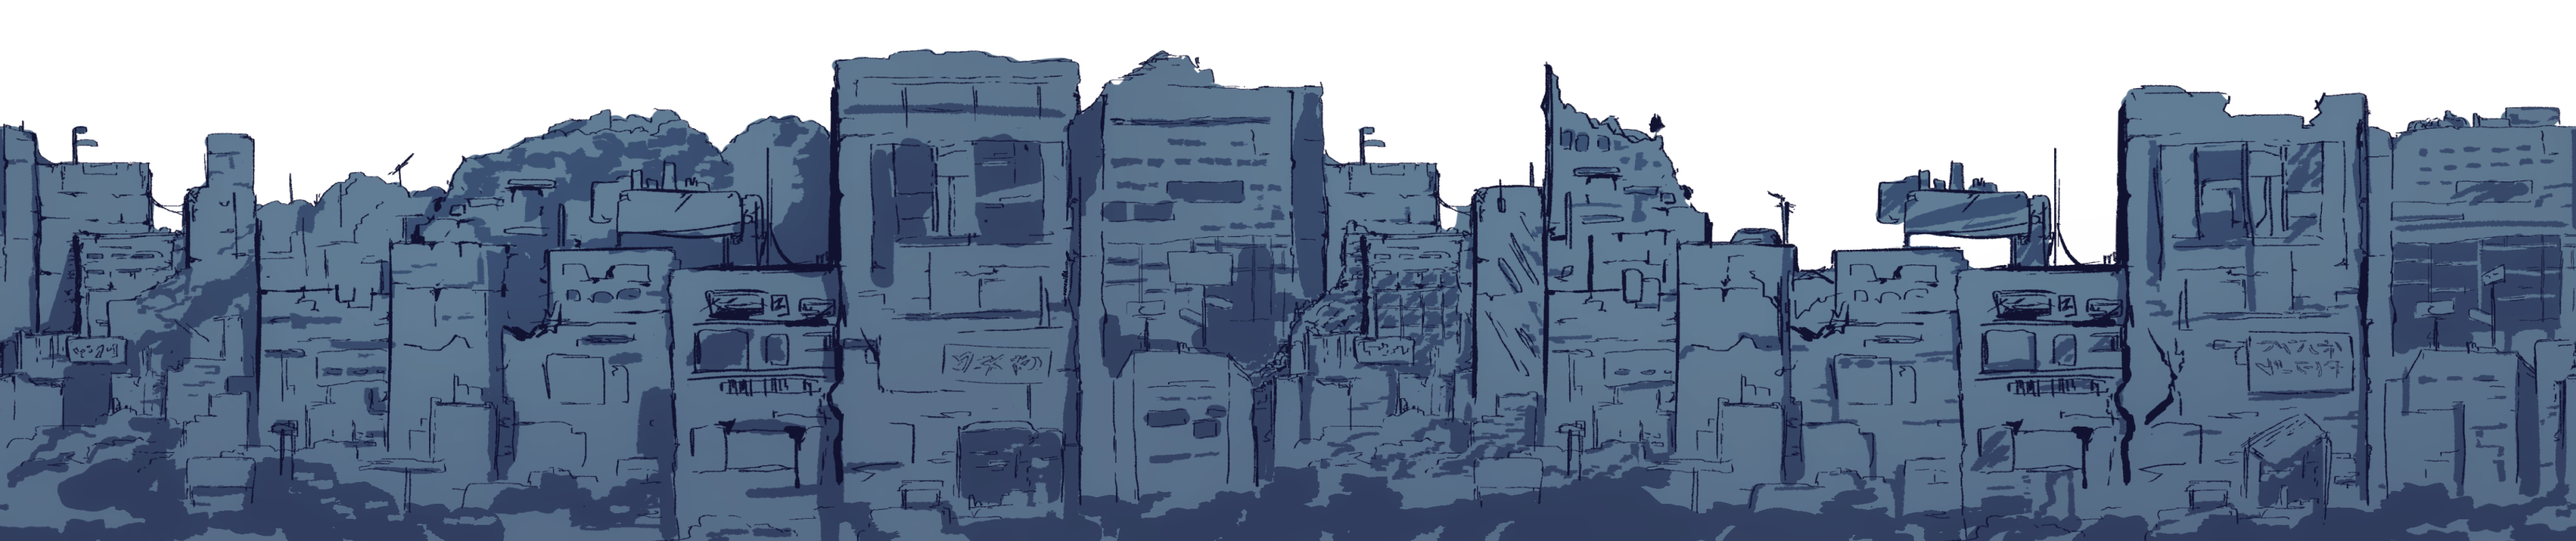
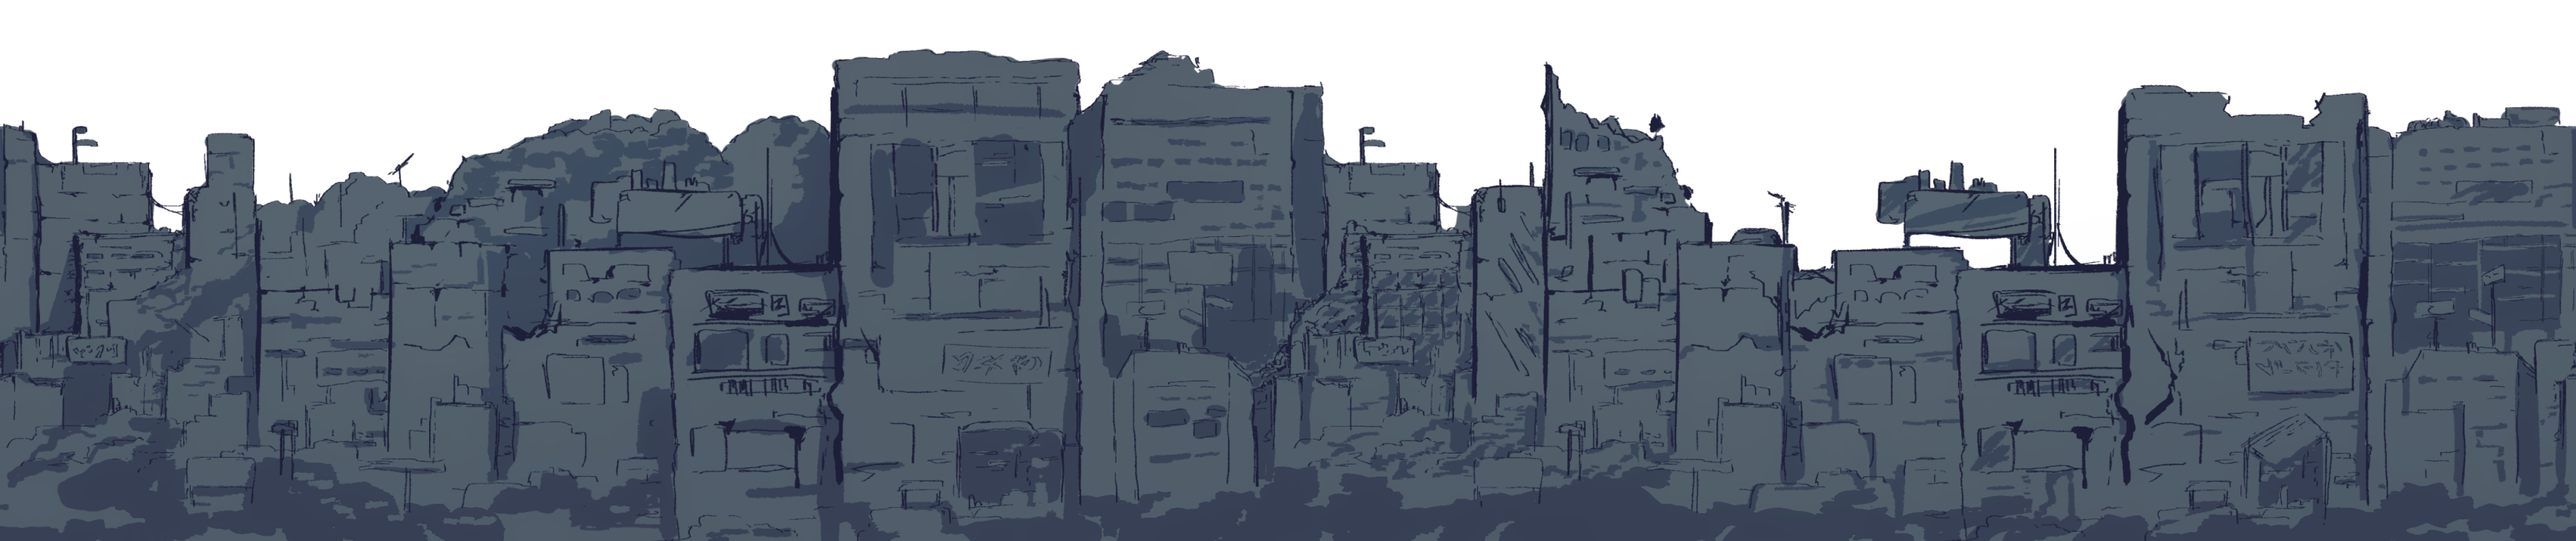
update parallax

diff --git a/src/game/parallax_layers.ts b/src/game/parallax_layers.ts
@@ -12,9 +12,9 @@ export class ParallaxLayers extends Entity {
     { speed: -0.08 , texture: Assets.getResource("parallax bg/02 - skyline"), },
     { speed: -0.1, texture: Assets.getResource("parallax bg/03 - mist"), },
     { speed: -0.12 , texture: Assets.getResource("parallax bg/04 - city back"), },
-    { speed: -0.20, texture: Assets.getResource("parallax bg/05 - forest back"), },
+    { speed: -0.15, texture: Assets.getResource("parallax bg/05 - forest back"), },
     { speed: -0.25 , texture: Assets.getResource("parallax bg/06 - city"), },
-    { speed: -0.9 , texture: Assets.getResource("parallax bg/07 - forest"), },
+    { speed: -0.6 , texture: Assets.getResource("parallax bg/07 - forest"), },
   ];
 
   sprites: TilingSprite[] = [];
@@ -62,16 +62,18 @@ export class ParallaxLayers extends Entity {
     // 03 - mist
     // 04 - city back
     this.sprites[4].y -= 200;
+    this.sprites[4].tint = 0xCACACA;
     // 05 - forest back
     this.sprites[5].y += 300;
     this.sprites[5].tileScale = new PixiPoint(2, 2);
     // 06 - city
     this.sprites[6].tileScale = new PixiPoint(1, 1);
     this.sprites[6].y += 450;
-    // this.sprites[6].tint = 0x999999;
+    this.sprites[6].tint = 0xCACACA;
     // 07 - forest
-    this.sprites[7].y += 1700;
-    this.sprites[7].alpha = 0.8;
+    this.sprites[7].tileScale = new PixiPoint(2.2, 2.2);
+    this.sprites[7].y += 1400;
+    this.sprites[7].alpha = 0.9;
   
   }
 
@@ -82,8 +84,8 @@ export class ParallaxLayers extends Entity {
 
       sprite.tilePosition.x = state.camera.cameraFrame().x * layer.speed / 4;
     }
-    this.sprites[0].tilePosition.x = state.tick * -0.5;
-    this.sprites[5].tilePosition.x = state.tick * -0.1;
-    this.sprites[7].tilePosition.x = state.tick * -0.4;
+    this.sprites[0].tilePosition.x += state.tick * -0.5;
+    this.sprites[5].tilePosition.x += state.tick * -0.05;
+    this.sprites[7].tilePosition.x += state.tick * -0.4;
   }
 }
